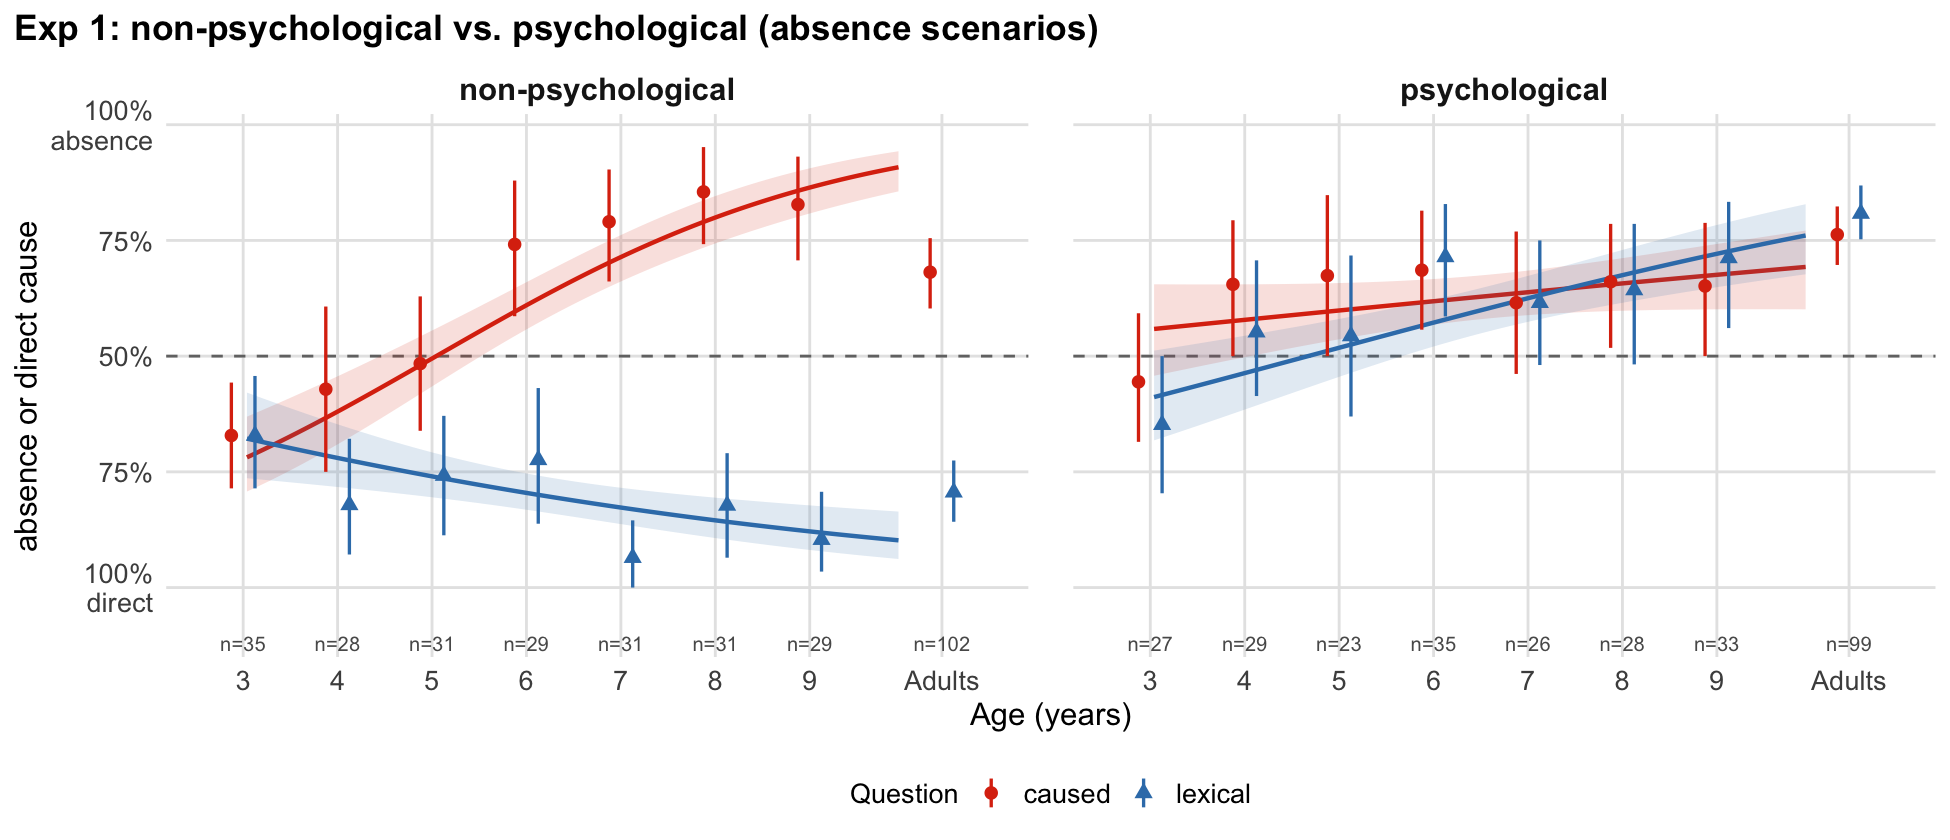
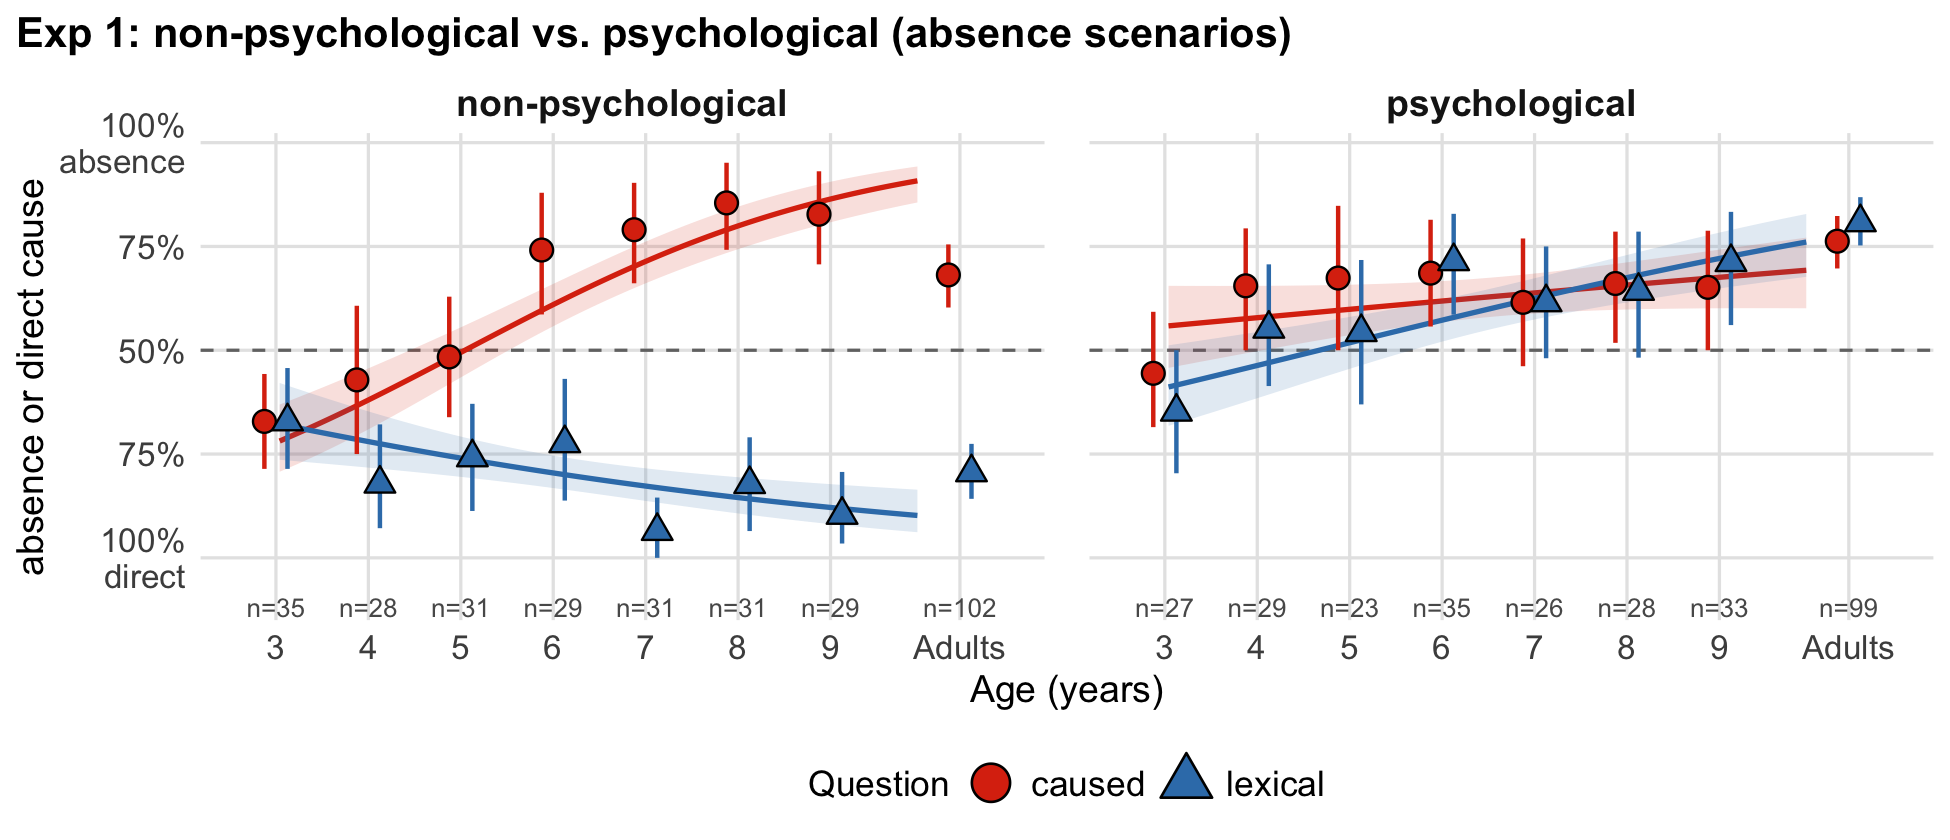
Set README title, drop preregistration placeholders, restyle figures
- README: set title "How Children Map Psychological Verbs to Different Causes";
  remove the preregistration / OSF link placeholders (not used)
- figures: larger axis/legend/strip text; larger points with a black outline
  (shapes 21/24, filled by question); much larger legend key shapes

diff --git a/README.md b/README.md
@@ -1,6 +1,4 @@
-# Psychological verbs and the development of causal language
-
-<!-- TODO: replace with the final paper title and add a one-line subtitle if desired. -->
+# How Children Map Psychological Verbs to Different Causes
 
 This repository contains the experiments, data, analyses, and figures for a
 developmental project on how **children (ages 3–9) and adults** map different
@@ -10,8 +8,6 @@ outcome, a **causal / "caused"** question ("who *caused* it?") tends to pick out
 *broke* it?", "who *scared* her?") can pick out a more **proximal / direct** cause.
 We ask how this mapping differs for **non-psychological vs. psychological** verbs
 and scenarios, and how it changes across development.
-
-<!-- TODO: add preprint / OSF project link, e.g.  Preprint: https://osf.io/...  -->
 
 ## Repository structure
 
@@ -40,14 +36,11 @@ Each experiment is archived in its own folder under
 what it looked like when it was run — see the
 [experiments README](code/experiments/README.md) for full designs.
 
-| # | Experiment | Between-subjects condition | Scenarios | Pre-registration |
-|---|---|---|---|---|
-| 1 | **Absence** scenarios | non-psychological / psychological (physical / mental) | hurt, shock | [adults](#) · [children](#) <!-- TODO: OSF links --> |
-| 2 | **Verbs** (causal vs. psychological), between-subjects | non-psychological / psychological (control / experimental) | drum, balloon | [adults](#) · [children](#) <!-- TODO: OSF links --> |
-| 3 | **Scared vs. surprised** | — (single condition) | scared, surprised | [adults](#) · [children](#) <!-- TODO: OSF links --> |
-
-> **⚠ Pre-registration links are placeholders (`#`).** Replace them with the OSF
-> pre-registration URLs for each experiment/population.
+| # | Experiment | Between-subjects condition | Scenarios |
+|---|---|---|---|
+| 1 | **Absence** scenarios | non-psychological / psychological (physical / mental) | hurt, shock |
+| 2 | **Verbs** (causal vs. psychological), between-subjects | non-psychological / psychological (control / experimental) | drum, balloon |
+| 3 | **Scared vs. surprised** | — (single condition) | scared, surprised |
 
 ## Reproducing the analysis
 
